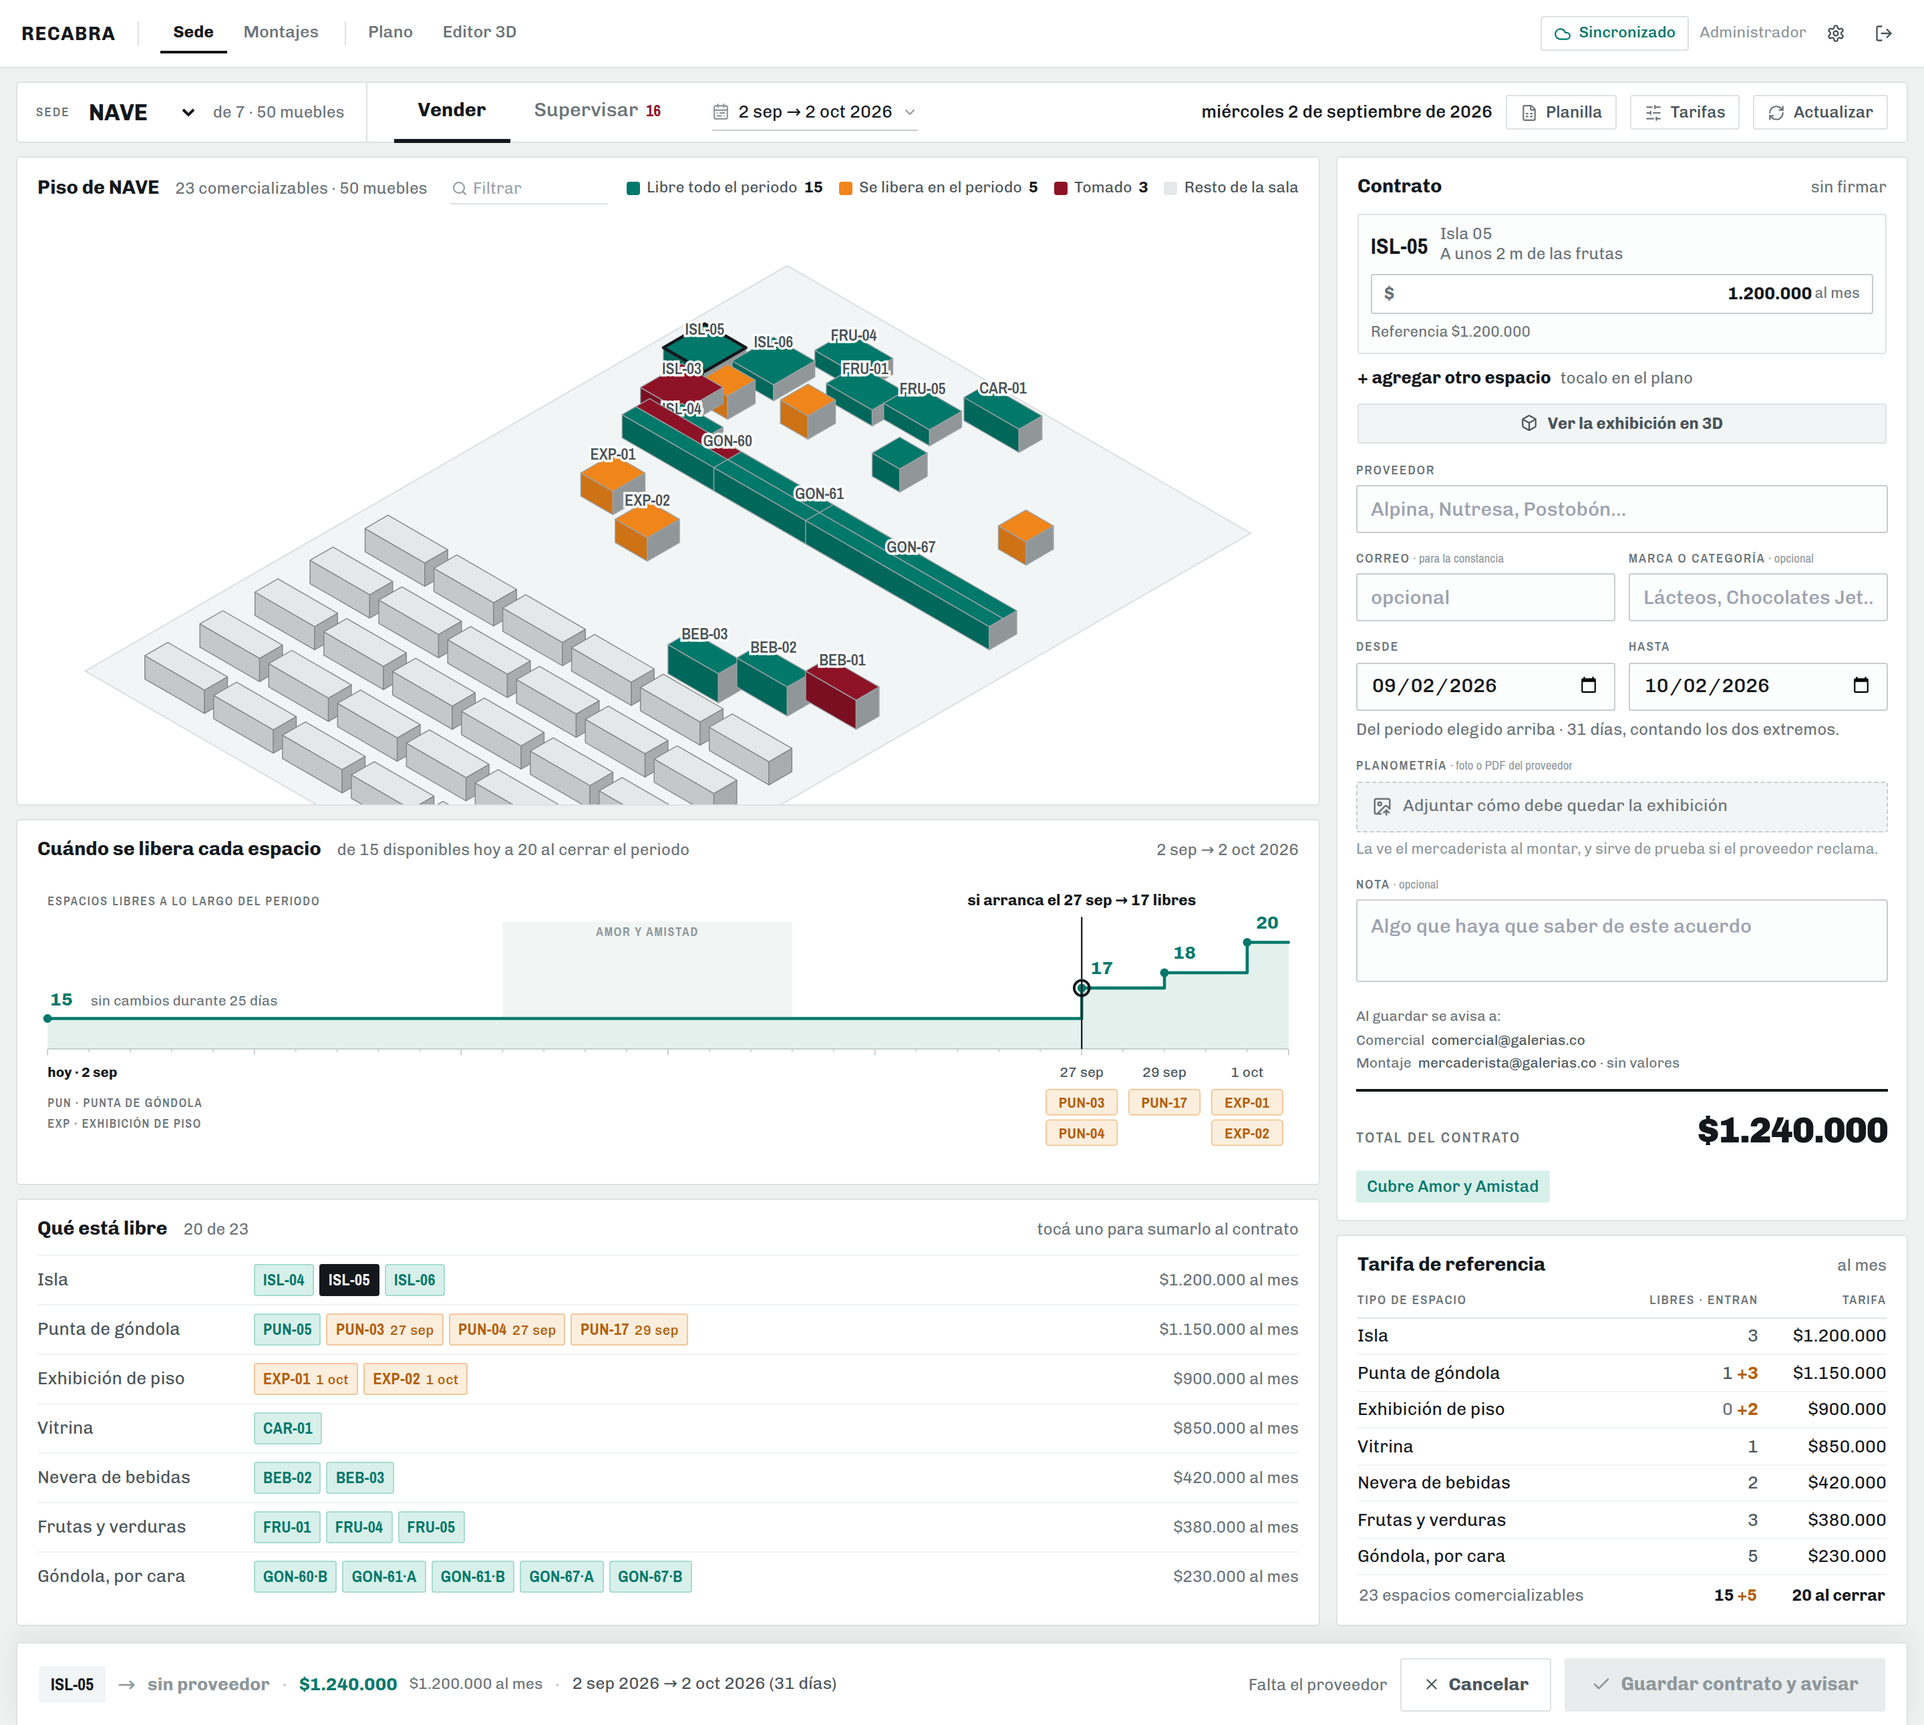
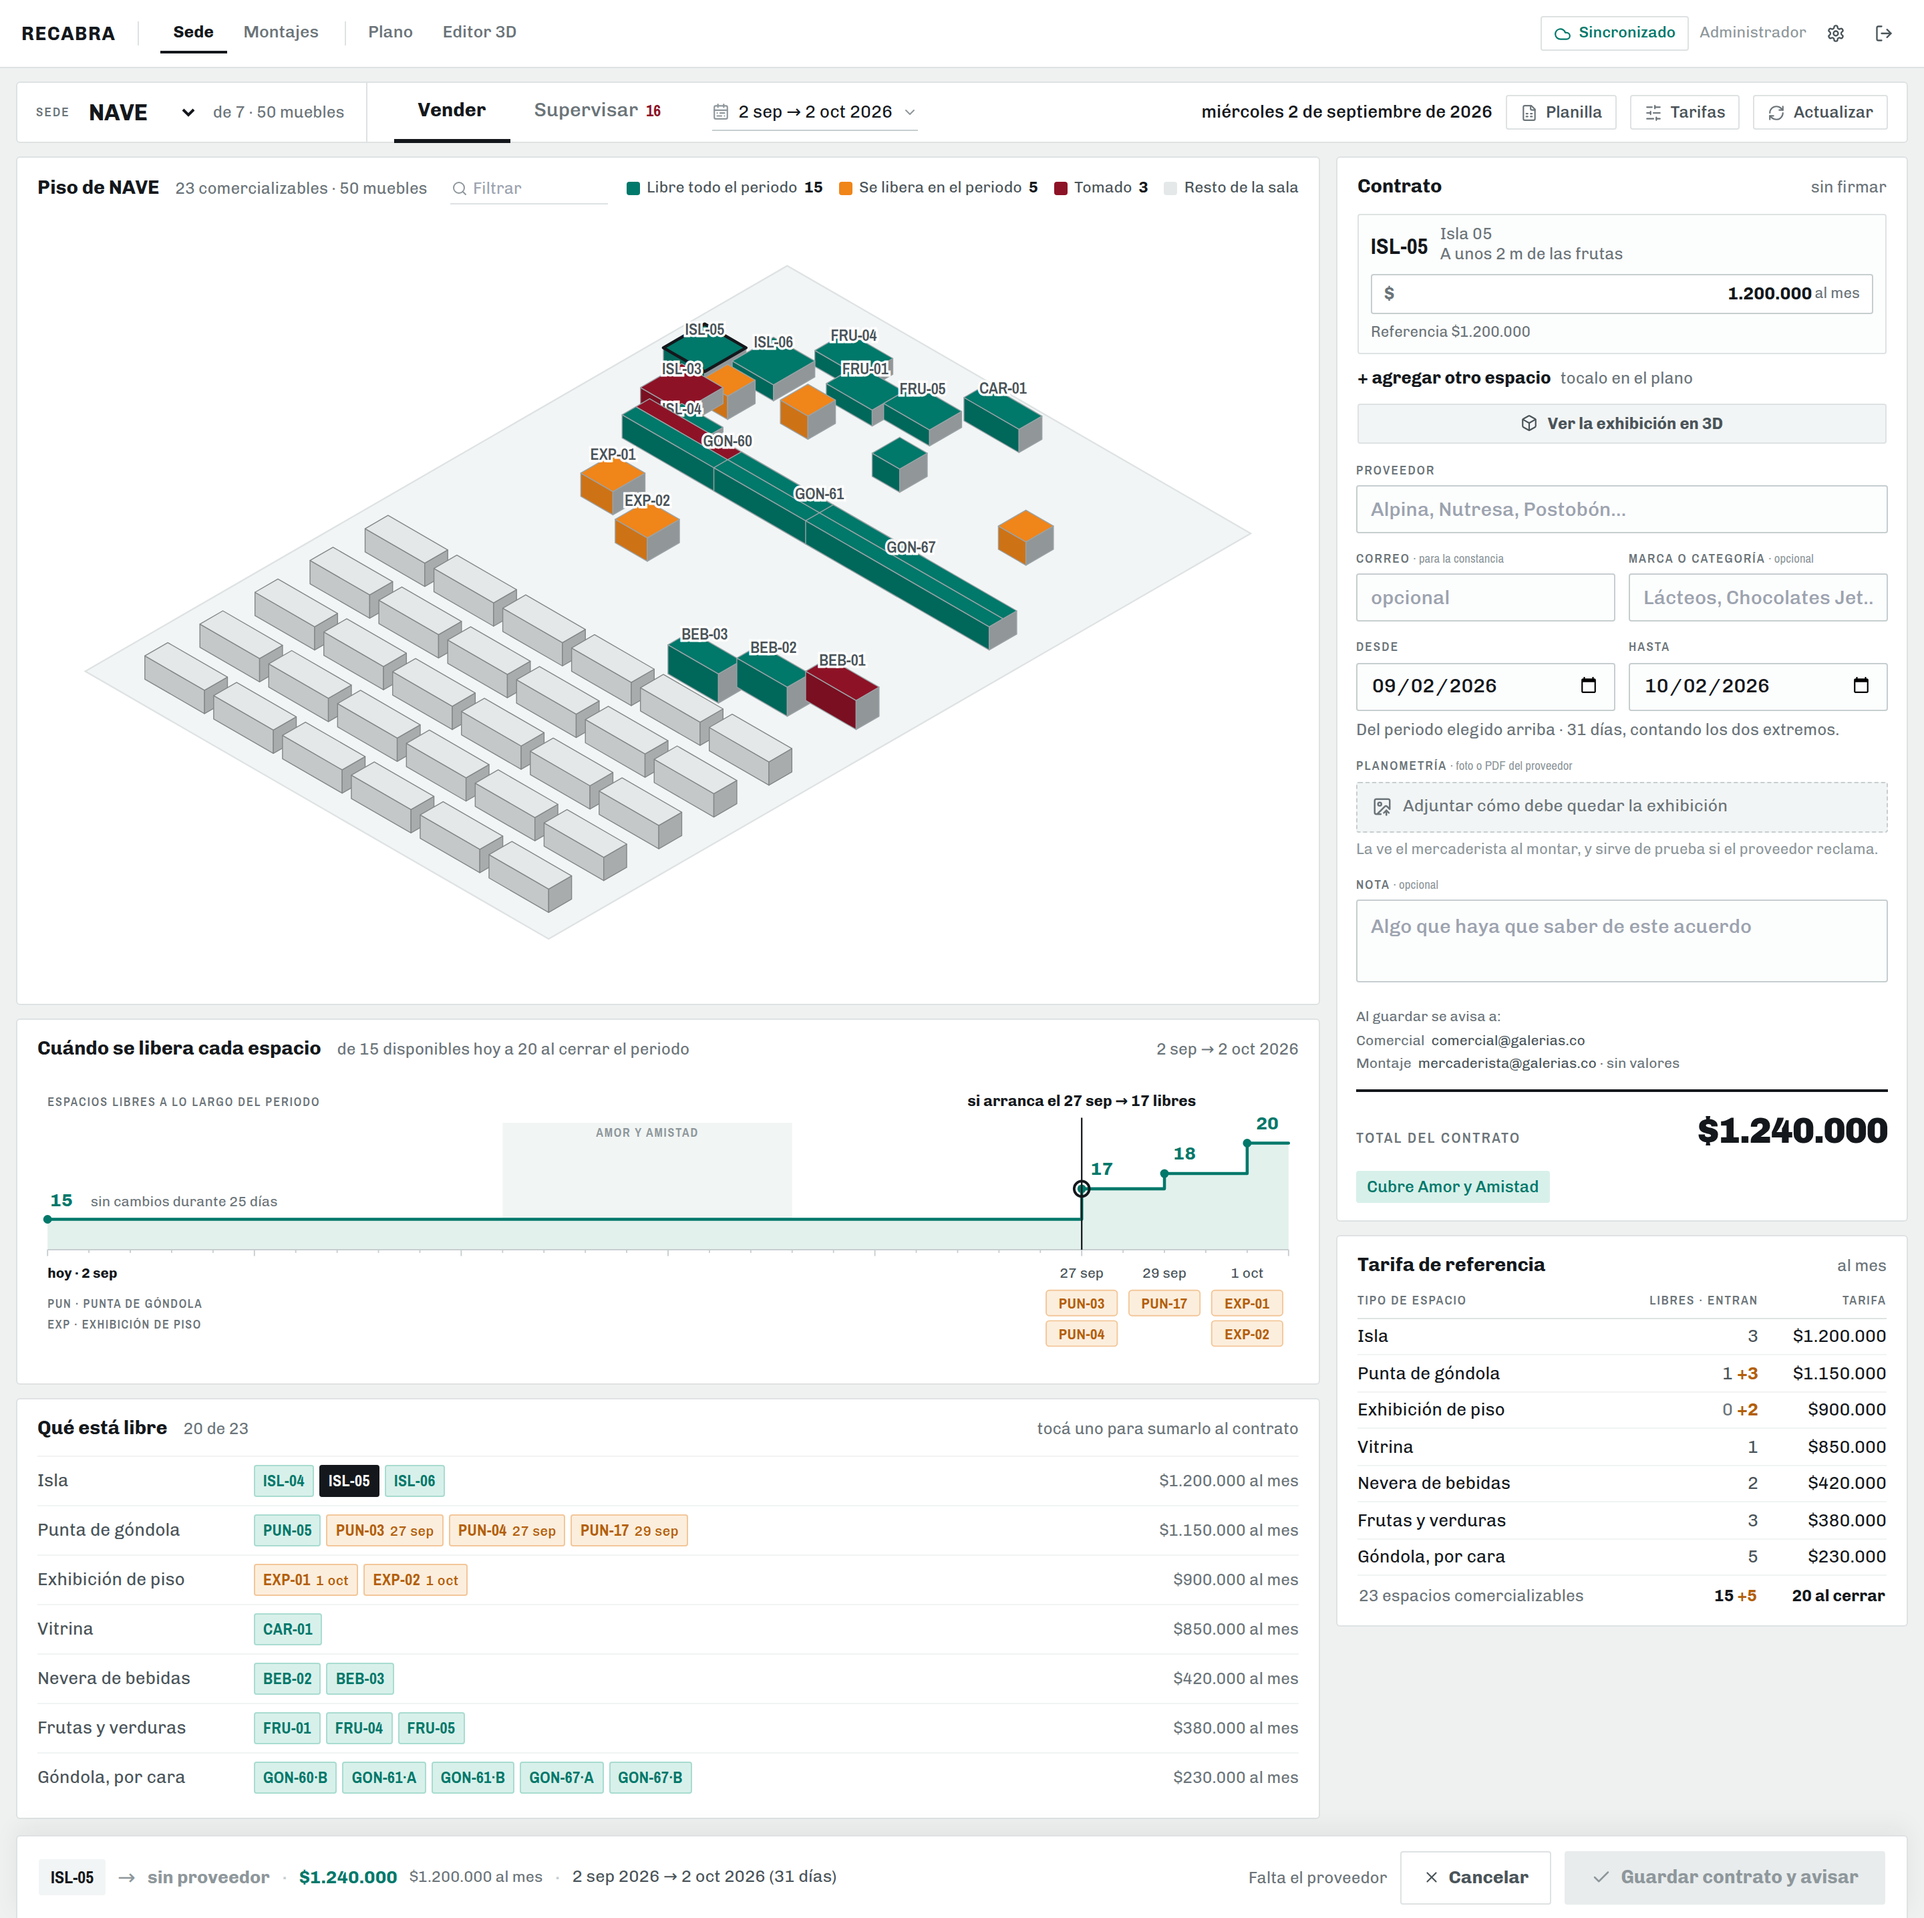
El plano volvía a cortarse abajo: el flex-basis era un alto, no un ancho
La tarjeta del plano es la misma en Vender y en Supervisar, y llevaba
`flex: "1 1 480px"` escrito una sola vez. En Supervisar es hija de una fila y
esos 480 px son ancho. En Vender pasó a vivir dentro de la columna izquierda
—cuando los códigos libres se mudaron ahí— y ahí el mismo valor es ALTO: el
`flex-basis` va sobre el eje principal del padre. La tarjeta quedó de 480 px
sobre un lienzo que pide 850, y como la tarjeta tija lo que sobra, el dibujo
salió a producción cortado 142 px abajo: las últimas corridas de góndolas y el
vértice de abajo del piso.

El `flex` ahora lo pone quien la llama: `0 0 auto` en la columna, donde la
tarjeta se mide con su dibujo; `1 1 480px` en la fila, donde crece a lo ancho.
Es lo que ya decía el comentario del armazón de Vender —«nunca la tarjeta del
plano ni la escalera»— y que el valor compartido contradecía en silencio.

Por qué no lo agarró el harness, que es lo más caro de esto:

- El chequeo de desborde saltea al padre que no es `overflow: visible`. Tiene
  razón para el que hace scroll, pero `hidden` no guarda lo que sobra: lo tija.
  Se agrega «lo que se corta»: desborde hacia abajo dentro de un padre que
  esconde. Sólo hacia abajo, porque el corte horizontal en `hidden` es el de
  los títulos con puntos suspensivos, que se cortan a propósito.
- Y los chequeos corrían UNA vez, al final, sobre lo que hubiera quedado en el
  navegador — que en modo admin es Supervisar, la última pestaña del recorrido.
[…]

diff --git a/frontend/src/pages/DashboardView.tsx b/frontend/src/pages/DashboardView.tsx
@@ -2805,14 +2805,22 @@ export default function DashboardView() {
     return t.replace(",", "");
   }, []);
 
-  /** La tarjeta del mapa. Es la MISMA en los dos modos —el mapa no cambia
+  /** La tarjeta del plano. Es la MISMA en los dos modos —el mapa no cambia
    *  porque cambie para qué estás mirándolo—; sólo cambian el subtítulo y las
-   *  palabras de la clave, porque la pregunta que se le hace sí cambia. */
-  /** La tarjeta del plano. No lleva alto: lo pone el lienzo, que se mide con
-   *  la proporción del plano de la sede. Fijarlo dejaba medio panel en blanco
-   *  alrededor de un dibujo chico. */
-  const tarjetaMapa = () => (
-        <Card style={{ position: "relative", flex: "1 1 480px", minWidth: 0 }}>
+   *  palabras de la clave, porque la pregunta que se le hace sí cambia.
+   *
+   *  No lleva alto: lo pone el lienzo, que se mide con la proporción del plano
+   *  de la sede. Fijarlo dejaba medio panel en blanco alrededor de un dibujo
+   *  chico.
+   *
+   *  El `flex` lo pone quien la llama, y no es un detalle: en Supervisar la
+   *  tarjeta es hija de una FILA —`1 1 480px` es ancho, y crece— y en Vender es
+   *  hija de una COLUMNA, donde ese mismo valor es ALTO. Con 480 px de alto
+   *  base y `overflow: hidden`, un plano de 1,7:1 sobre 1450 px de columna pide
+   *  850 y el dibujo se cortaba abajo. En columna la tarjeta se mide con su
+   *  contenido: `0 0 auto`. */
+  const tarjetaMapa = (flex: React.CSSProperties["flex"]) => (
+        <Card style={{ position: "relative", flex, minWidth: 0 }}>
           <CardHeader
             title={`Piso de ${sede}`}
             sub={modoEfectivo === "vender"
@@ -3326,7 +3334,9 @@ export default function DashboardView() {
           onSeguir={() => setCerrado(null)}
         >
           <div style={{ flex: "1 1 520px", minWidth: 0, display: "flex", flexDirection: "column", gap: 10 }}>
-            {tarjetaMapa()}
+            {/* En columna: alto de su dibujo. Estirarla o encogerla es blanco
+                adentro o plano cortado; el desnivel lo absorbe el último panel. */}
+            {tarjetaMapa("0 0 auto")}
 
             {/* ── Cuándo se libera cada espacio ────────────────────────────
                 La escalera. Contesta la pregunta con la que se negocia una
@@ -3464,7 +3474,8 @@ export default function DashboardView() {
               gap: 10, marginBottom: 10,
             }}
           >
-            {tarjetaMapa()}
+            {/* En fila: 480 px de ancho base, y se lleva lo que sobre. */}
+            {tarjetaMapa("1 1 480px")}
 
             <div
               style={{

diff --git a/docs/maquetas/generadores/README.md b/docs/maquetas/generadores/README.md
@@ -15,7 +15,7 @@ revisó `docs/maquetas/`. Quedan versionadas porque una vez se perdieron.
 | `tamanos.mjs` | Lista los tamaños de letra tal como se renderizan, incluido lo que va dentro de un SVG (se escala con el viewBox). Sirve para no dejar entrar un octavo tamaño |
 | `medir.mjs` · `huecos.mjs` | Miden los paneles y el aire muerto, para saber dónde sobra espacio |
 | `supervisar.py` + `sistema.css` + `plano.svg` | Generan `elegida-supervisar.html`. `sistema.css` es la hoja de estilos de Vender extraída, más lo propio de Supervisar; `plano.svg` es el isométrico sacado de la maqueta de Vender, para no mantener dos copias |
-| `pantalla.mjs` + `sede-demo.mjs` | Miran las pantallas YA CONSTRUIDAS, sin backend, para poder compararlas contra las maquetas de al lado. Sirven `frontend/dist` y contestan `/api/*` con una sede sintética que lleva los ocho contratos reales de NAVE. Lo que no está en el mapa de rutas contesta **404** y no `[]`, que es lo que hace que un componente tome su camino de error en vez de recibir algo que parece un dato — así encontró el primer bicho. En modo `trabajador` replica lo que el servidor le borra a un mercaderista y verifica que no le quede un solo peso en pantalla. En `multi` y `guardar` afirma sobre el contrato multiespacio: que el total sea la suma prorrateada, que el plano marque todos los elegidos, y que al guardar salga **un solo pedido** al servidor con un proveedor y un periodo |
+| `pantalla.mjs` + `sede-demo.mjs` | Miran las pantallas YA CONSTRUIDAS, sin backend, para poder compararlas contra las maquetas de al lado. Sirven `frontend/dist` y contestan `/api/*` con una sede sintética que lleva los ocho contratos reales de NAVE. Lo que no está en el mapa de rutas contesta **404** y no `[]`, que es lo que hace que un componente tome su camino de error en vez de recibir algo que parece un dato — así encontró el primer bicho. En modo `trabajador` replica lo que el servidor le borra a un mercaderista y verifica que no le quede un solo peso en pantalla. En `multi` y `guardar` afirma sobre el contrato multiespacio: que el total sea la suma prorrateada, que el plano marque todos los elegidos, y que al guardar salga **un solo pedido** al servidor con un proveedor y un periodo. Los chequeos de geometría corren **una vez por pantalla capturada** —antes corrían al final, sobre la última pestaña, y Vender no se revisaba nunca— y son tres: lo que se sale de un panel que no tija, lo que se **corta** dentro de uno que sí (`overflow: hidden` no es `auto`), y el plano con nombre propio: que entre entero en su tarjeta y que el dibujo llene el lienzo |
 | `paleta.py` | Genera `paleta-plano.html`: los cuatro colores del mapa dibujados como los dibuja el sistema, antes y después, y las mismas dos filas pasadas por una simulación de deuteranopía |
 | `vista.mjs` | Captura una página larga cualquiera de estas y reporta errores |
 | `cuanto.mjs` | Compara el alto del contenido contra el de su caja, panel por panel. Es lo que dice cuánto hay que crecer o achicar en vez de tantear |

diff --git a/docs/ESTADO.md b/docs/ESTADO.md
@@ -2747,6 +2747,12 @@ queda anotado y no hecho.
   `@react-three/drei@10` pide `fiber@^9` y el editor 3D está escrito contra `fiber@8`.
 - `nginx/retail.conf` es para el despliegue en VPS, no para Render. Si ese VPS se reactiva,
   hay que copiar el archivo al host a mano — el workflow no lo despliega.
+- **`flex: "1 1 480px"` no quiere decir «480 px de ancho».** El `flex-basis` va sobre el
+  EJE PRINCIPAL del padre: en una fila es ancho, en una columna es alto. La tarjeta del
+  plano se comparte entre Vender y Supervisar, y cuando pasó a vivir dentro de la columna
+  de Vender ese mismo valor se volvió un alto de 480 px sobre un dibujo que pide 850 —
+  con `overflow: hidden` en la tarjeta, el plano salió a producción cortado 142 px abajo.
+  Ahora el `flex` lo pasa quien la llama.
 
 ---
 
